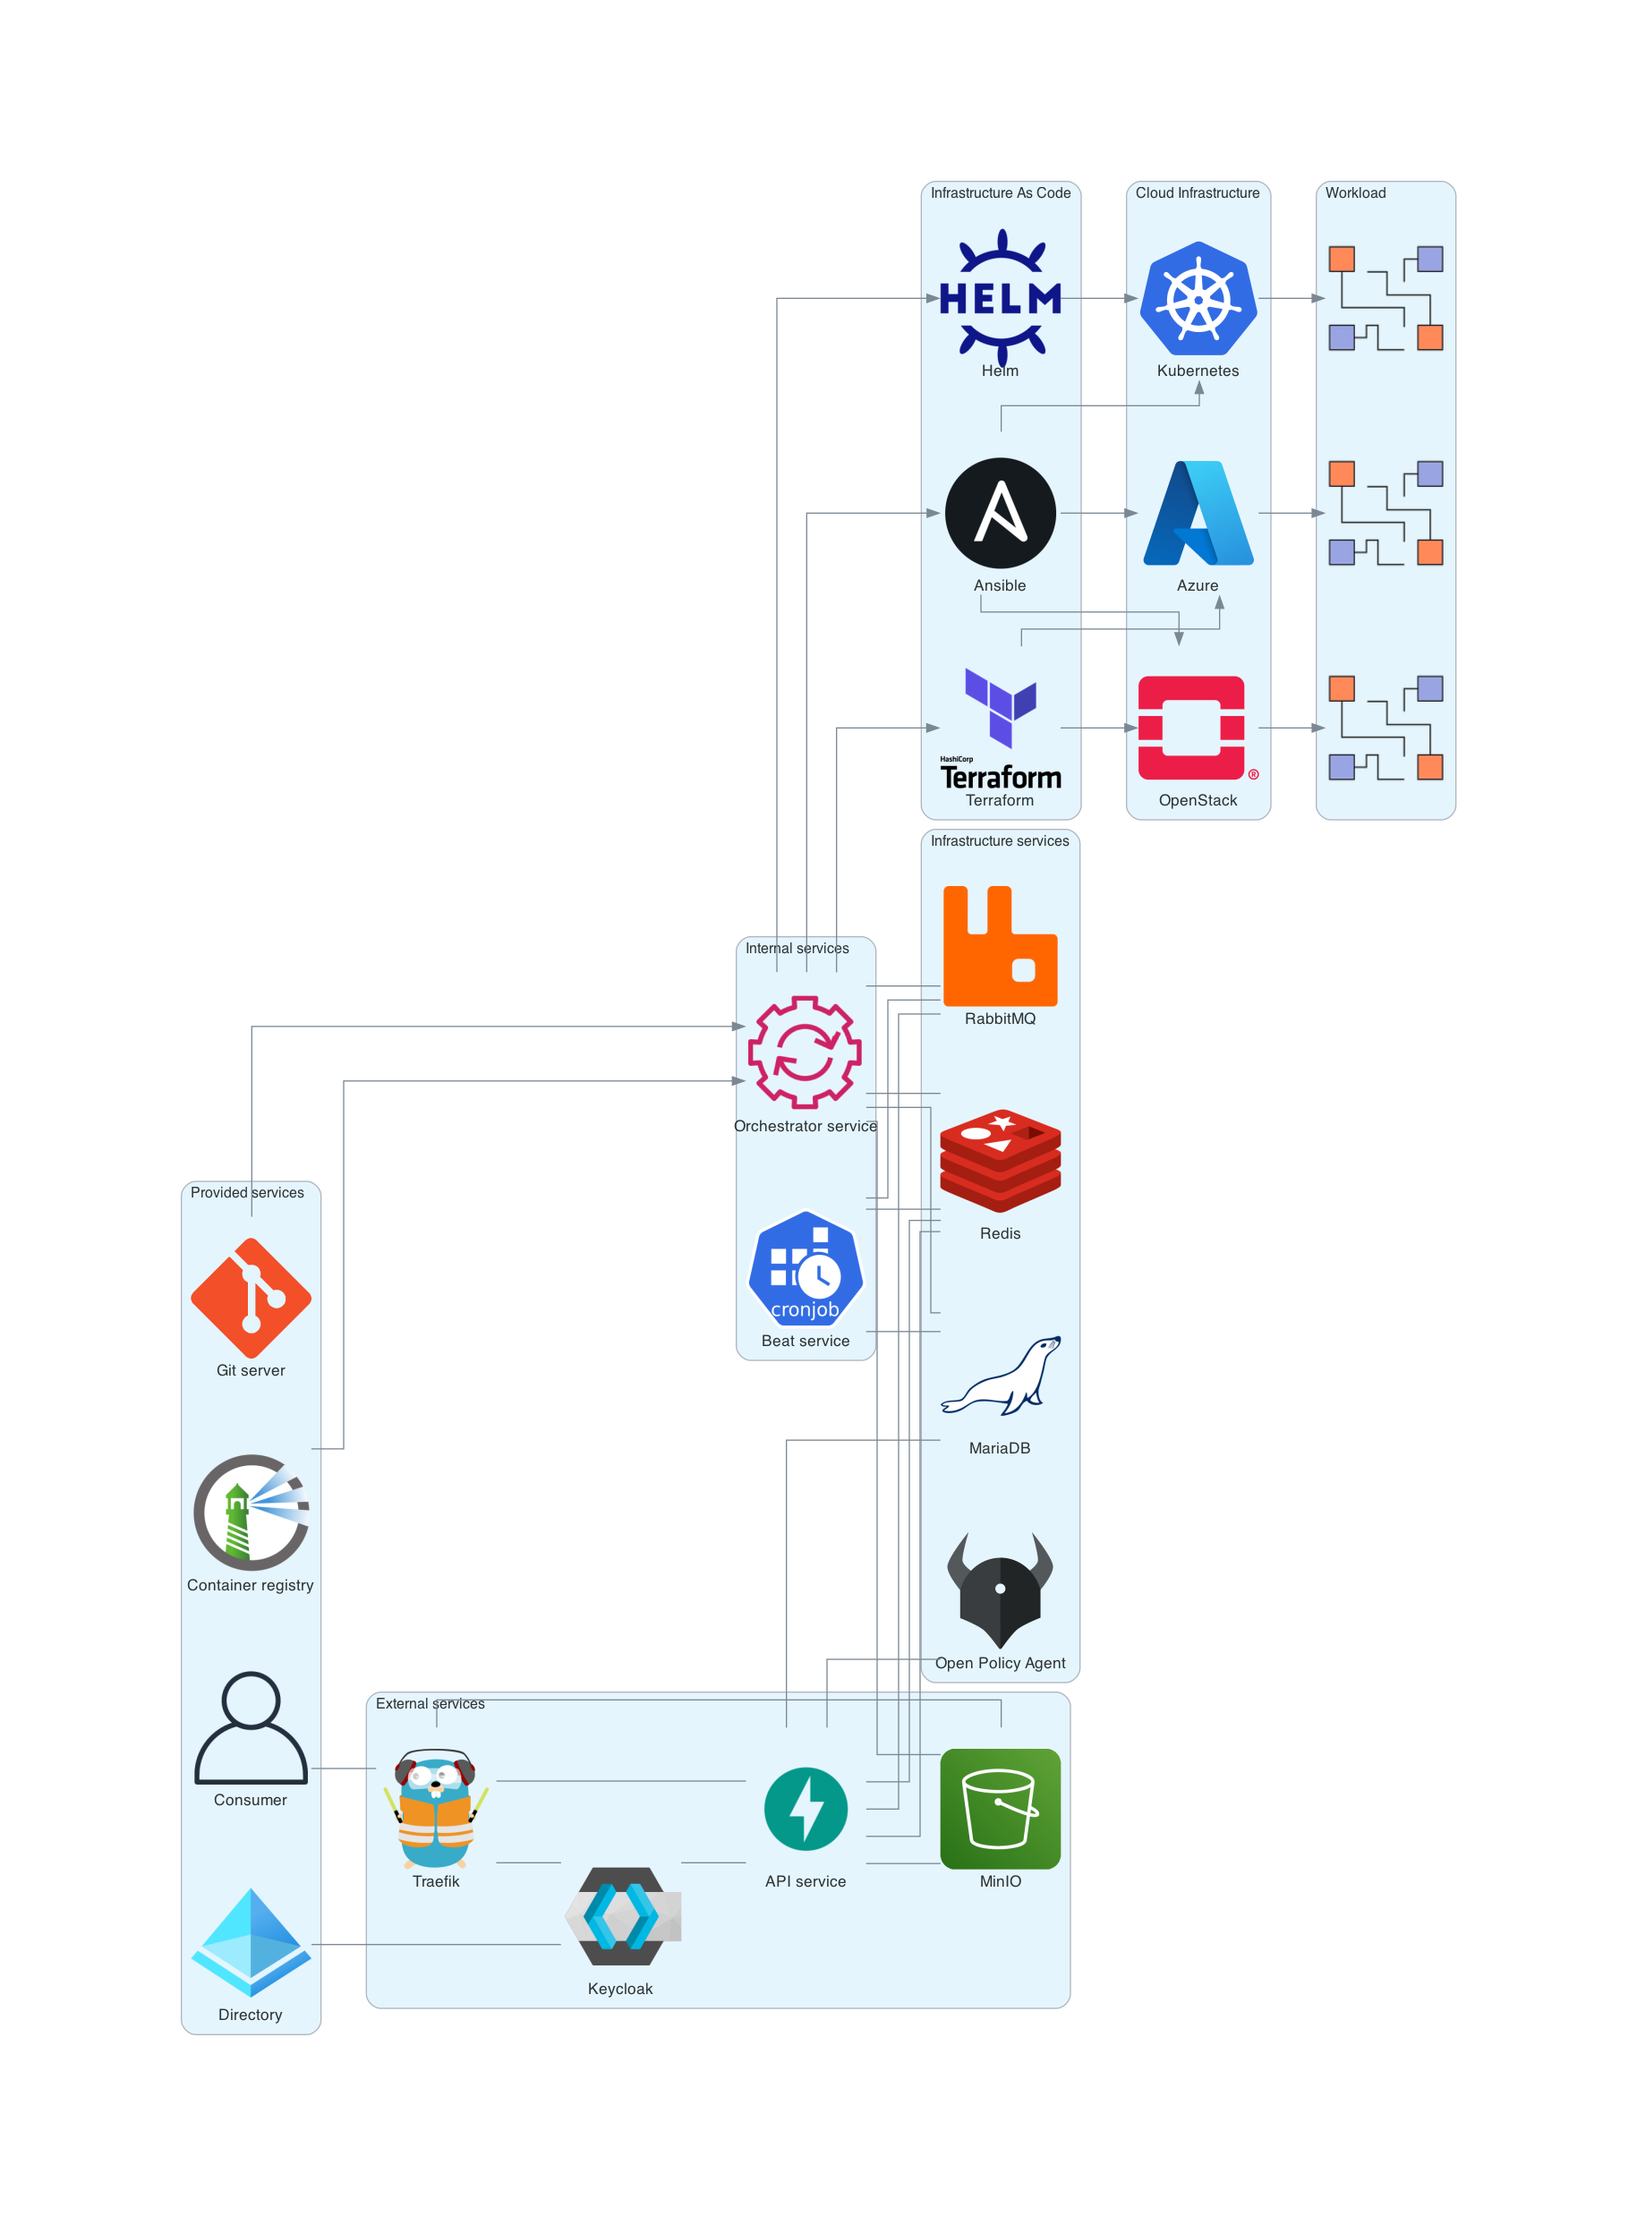
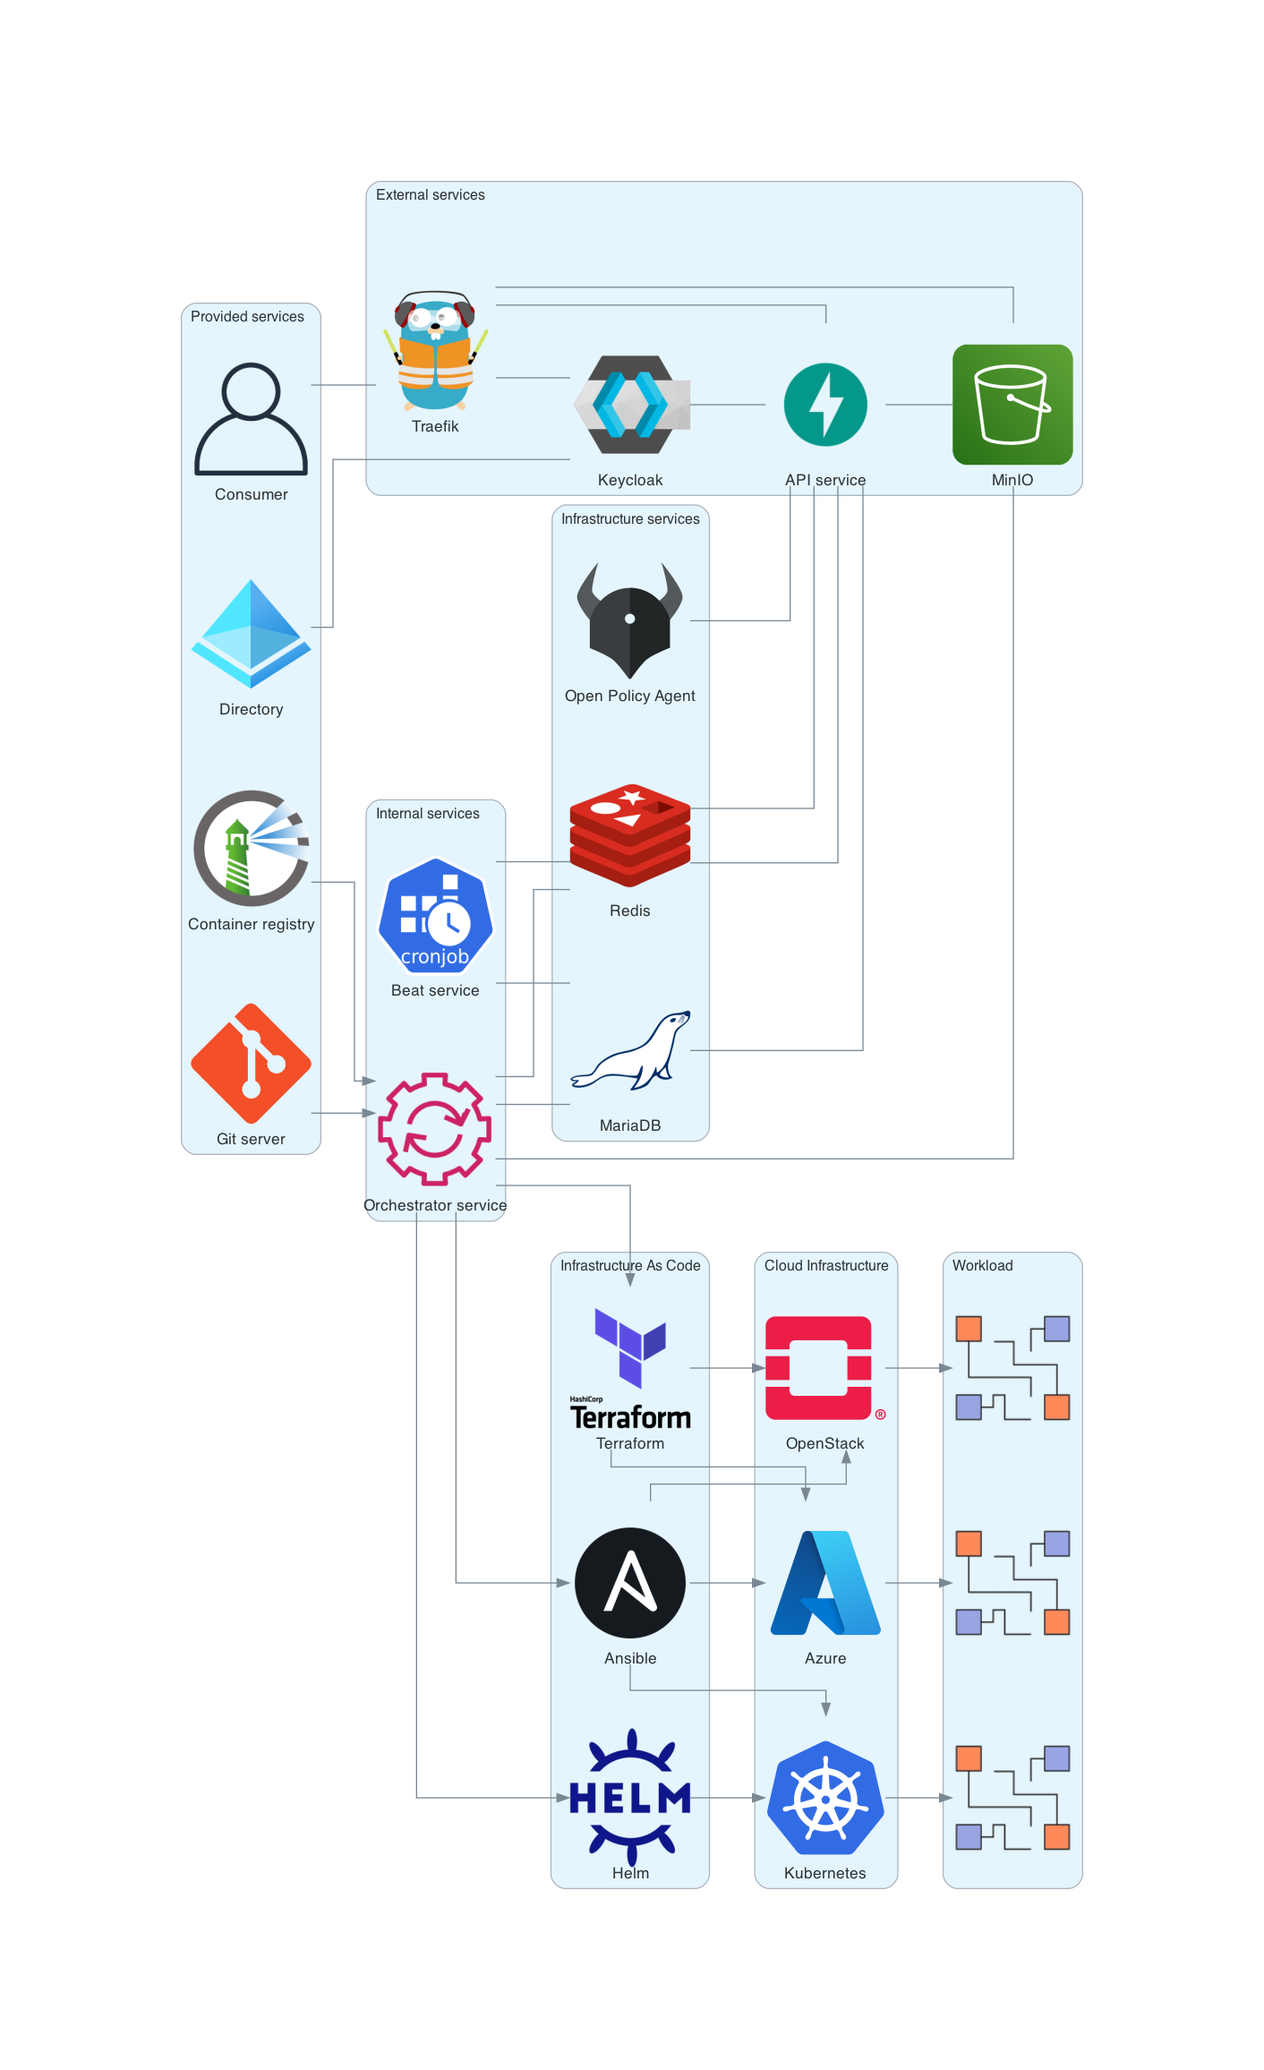
Remove rabbitmq service

diff --git a/docs/overview-on-premise.py b/docs/overview-on-premise.py
@@ -10,7 +10,6 @@ from diagrams.onprem.database import Mariadb
 from diagrams.onprem.iac import Ansible, Terraform
 from diagrams.onprem.inmemory import Redis
 from diagrams.onprem.network import Traefik
-from diagrams.onprem.queue import Rabbitmq
 from diagrams.onprem.registry import Harbor
 from diagrams.onprem.vcs import Git
 from diagrams.programming.framework import Fastapi
@@ -30,7 +29,6 @@ with Diagram(filename="overview-on-premise"):
 
     with Cluster("Infrastructure services"):
         mariadb = Mariadb("MariaDB")
-        rabbitmq = Rabbitmq("RabbitMQ")
         opa = Custom("Open Policy Agent", "logos/opa.png")
         # phpmyadmin = Custom("phpMyAdmin", "logos/phpmyadmin.png")
         # phpredisadmin = Custom("phpRedisAdmin", "logos/phpredisadmin.png")
@@ -71,16 +69,13 @@ with Diagram(filename="overview-on-premise"):
 
     redis - api
 
-    api - rabbitmq
     api - redis
     api - mariadb
     api - storage
 
-    beat - rabbitmq
     beat - redis
     beat - mariadb
 
-    orchestrator - rabbitmq
     orchestrator - redis
     orchestrator - mariadb
 
